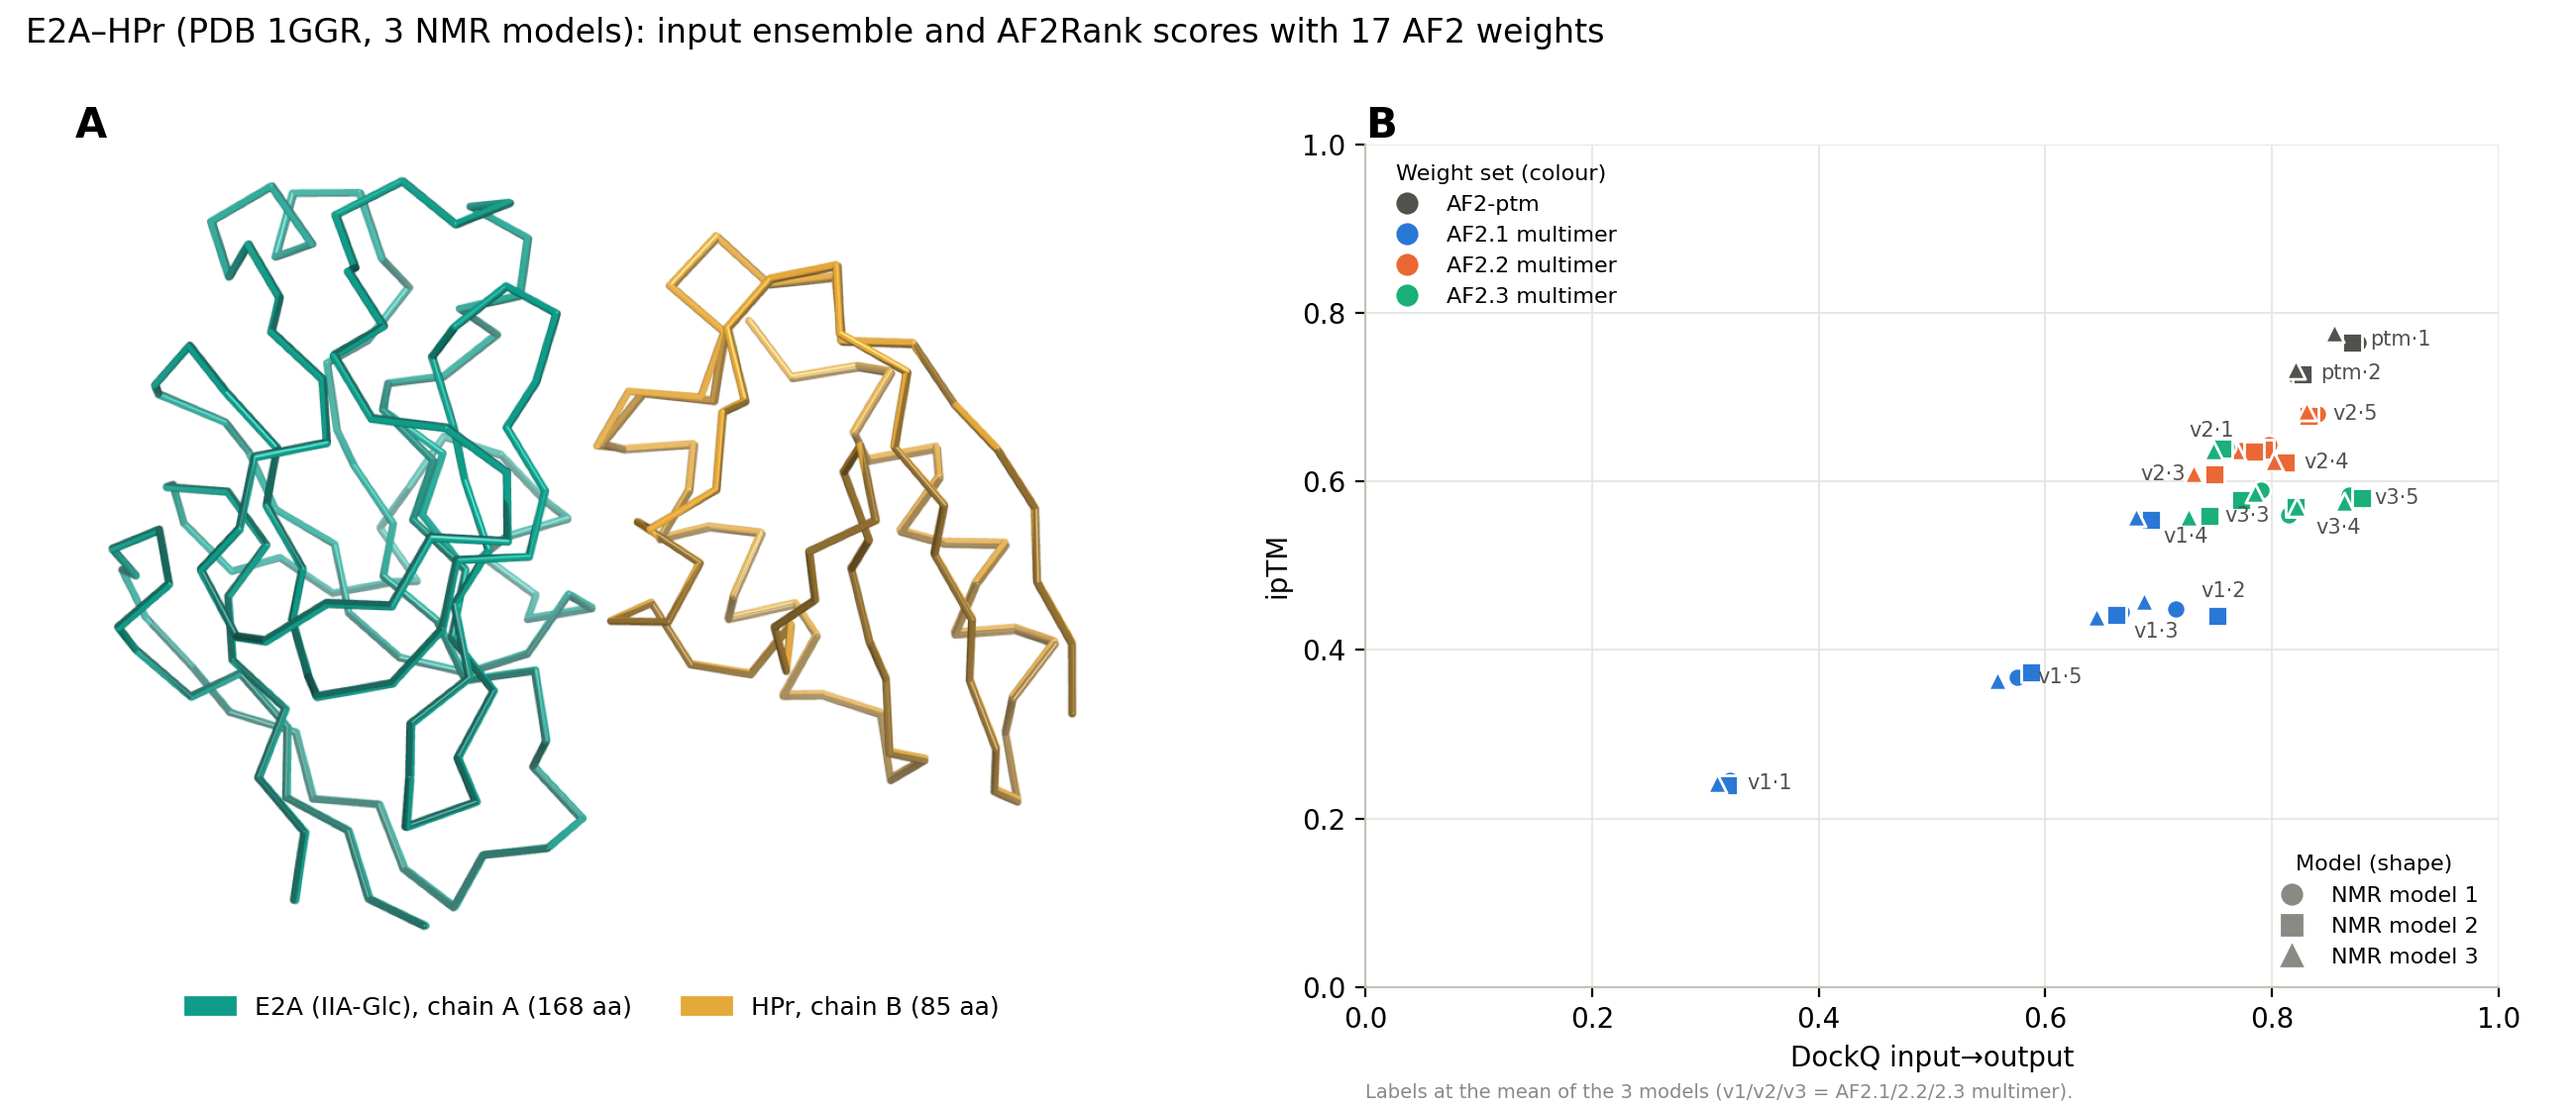
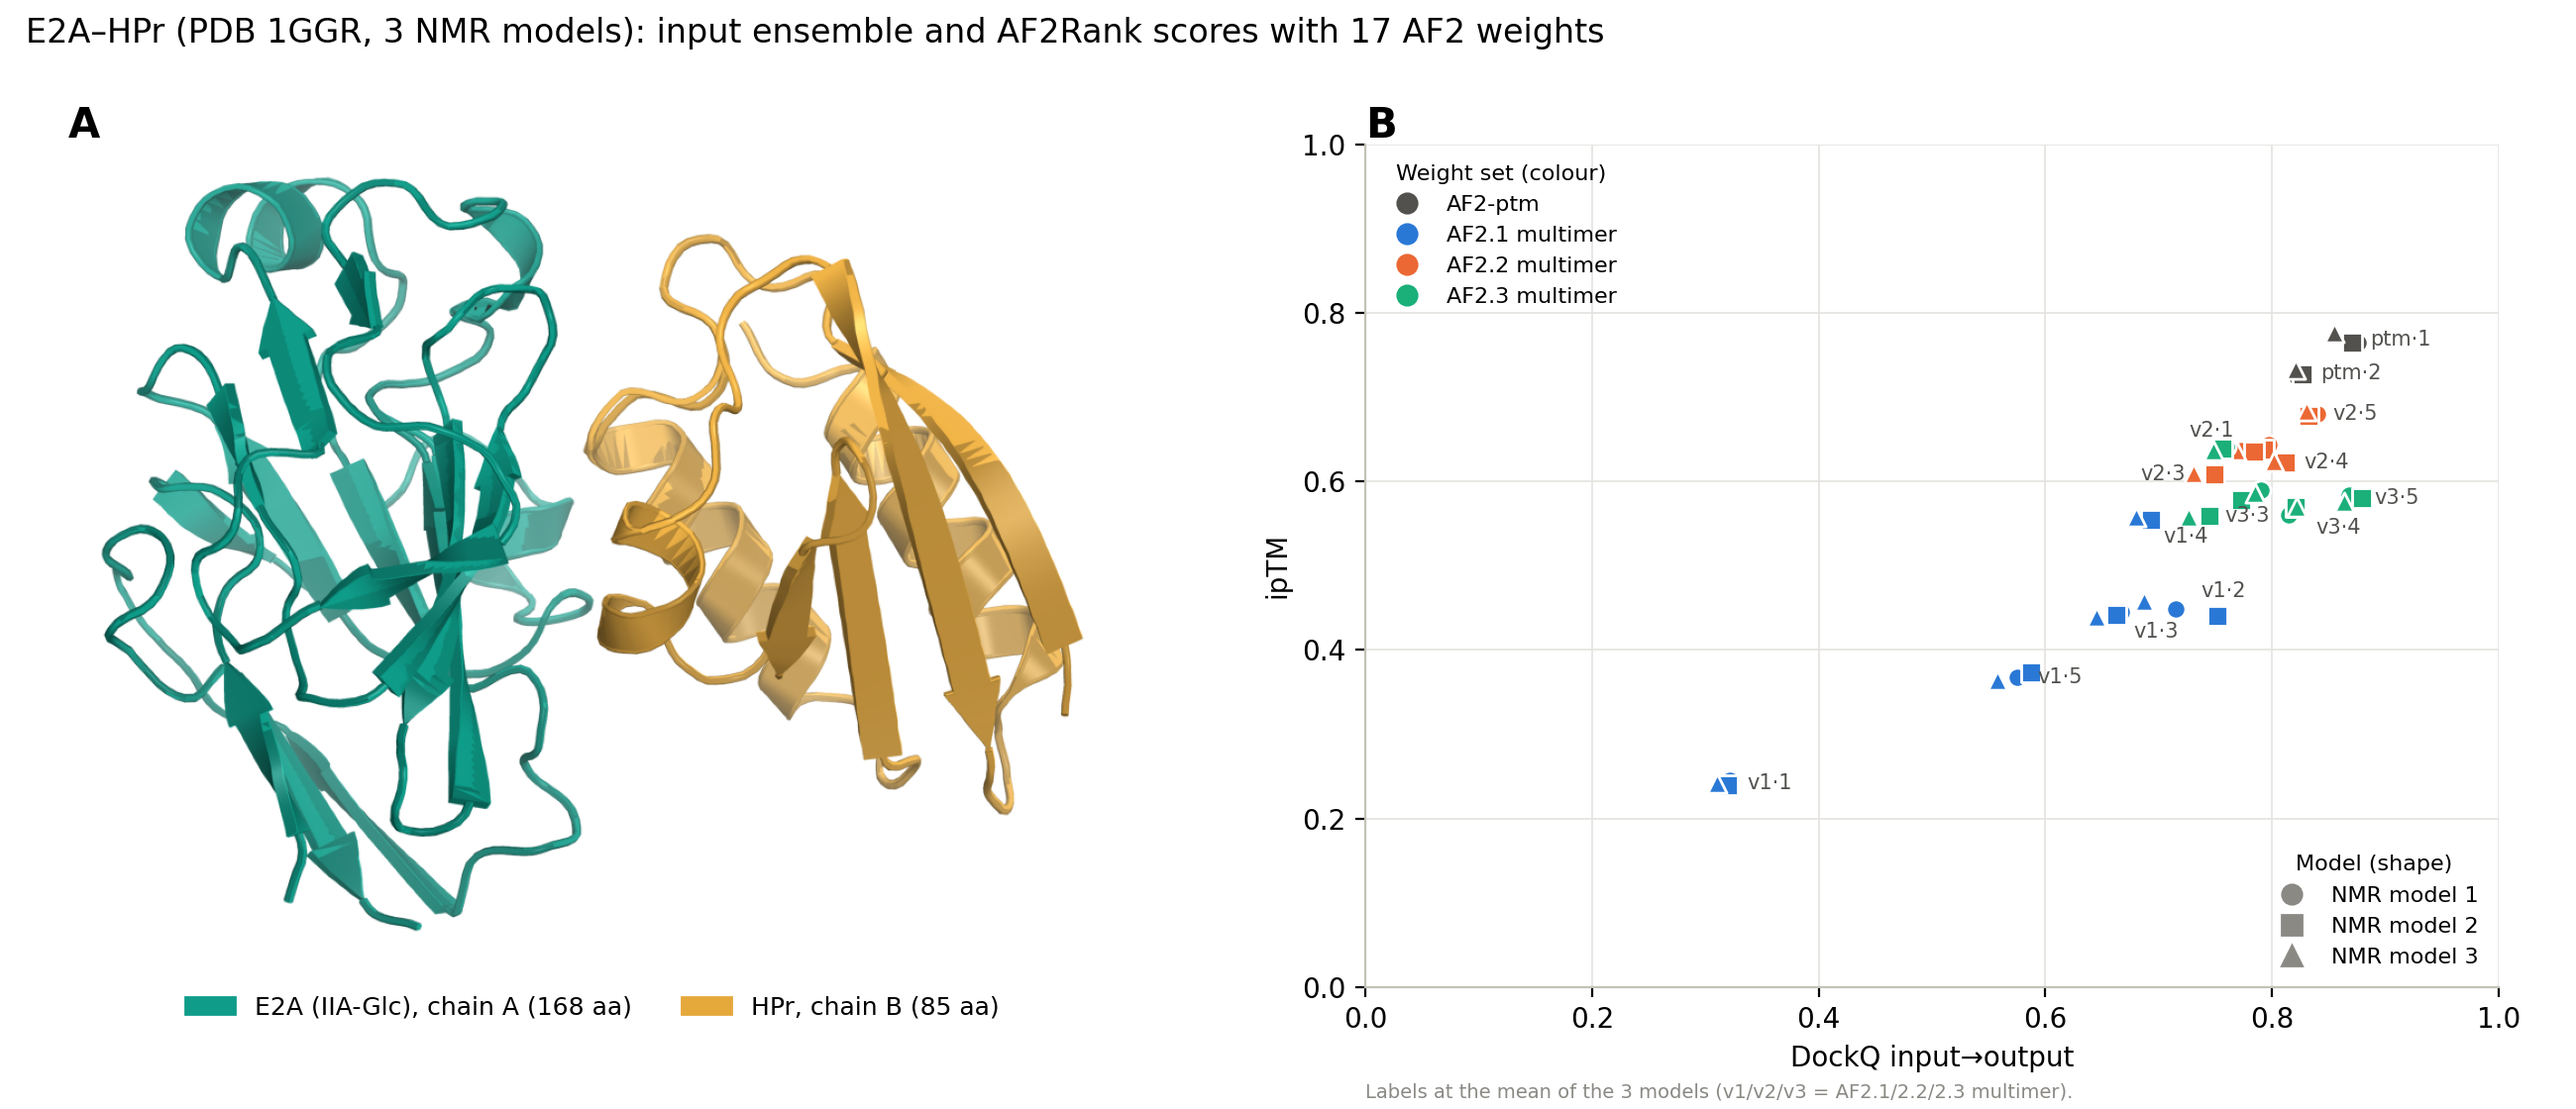
Draw the E2A-HPr ensembles as overlaid cartoons

Changed region(s): [[0.0312, 0.1562, 0.4362, 0.8438], [0.2181, 0.7188, 0.2492, 0.75], [0.0312, 0.0938, 0.0623, 0.125]]

diff --git a/docs/figures/scripts/render_ensembles.py b/docs/figures/scripts/render_ensembles.py
@@ -1,69 +1,32 @@
-"""Render the E2A-HPr ensembles (examples/e2a_hpr) with PyMOL, headless: E2A once, every HPr model overlaid.
+"""Render E2A-HPr ensembles (examples/e2a_hpr) with PyMOL, headless: every dimer model as a cartoon, overlaid.
 
 Usage: python render_ensembles.py <out_dir> examples/e2a_hpr/model_1ggr_nmr_ensemble.pdb examples/e2a_hpr/model_1hdn_ensemble_30.pdb
 """
 import sys
+import numpy as np
 from pymol import cmd
 
 out, ggr, hdn = sys.argv[1], sys.argv[2], sys.argv[3]
+TEAL, AMBER = (0x0f, 0x9d, 0x8a), (0xe5, 0xa8, 0x3b)
 
 
-def render(pdb, png, hpr_ribbon):
+def render(pdb, png):
     cmd.reinitialize()
     cmd.bg_color("white"); cmd.set("ray_opaque_background", 1); cmd.set("ray_shadows", 0)
     cmd.set("antialias", 2); cmd.set("ambient", 0.45); cmd.set("spec_reflect", 0.2)
-    cmd.set_color("teal_c", [0x0f / 255, 0x9d / 255, 0x8a / 255]); cmd.set_color("amber_c", [0xe5 / 255, 0xa8 / 255, 0x3b / 255])
-    cmd.load(pdb, "ens")
-    cmd.remove("hydro or hetatm or solvent")
-    cmd.dss("ens", state=0)
-    # E2A from state 1 only; HPr from every state.
-    cmd.create("e2a", "ens and chain A", 1, 1)
-    cmd.split_states("ens", prefix="hpr_")
-    cmd.delete("ens")
-    hprs = [n for n in cmd.get_names("objects") if n.startswith("hpr_")]
-    for n in hprs:
-        cmd.remove(f"{n} and not chain B")
-    cmd.hide("everything")
-    cmd.show("cartoon", "e2a"); cmd.color("teal_c", "e2a")
-    for n in hprs:
-        if hpr_ribbon:
-            cmd.show("ribbon", n); cmd.set("ribbon_width", 2.5, n)
-        else:
-            cmd.show("cartoon", n)
-        cmd.color("amber_c", n)
-    cmd.orient("e2a or hpr_*")
-    import numpy as np
-    ca = np.array(cmd.get_coords("e2a and name CA", 1)).mean(0)
-    cb = np.array(cmd.get_coords(f"{hprs[0]} and name CA", 1)).mean(0)
-    R = np.array(cmd.get_view()[:9]).reshape(3, 3)
-    v = (cb - ca) @ R
-    cmd.turn("z", -np.degrees(np.arctan2(v[1], v[0])))
-    cmd.zoom("e2a or hpr_*", 2)
-    cmd.png(png, width=1400, height=1100, dpi=300, ray=1)
-    print("saved", png, len(hprs), "HPr models")
-
-
-
-
-def render_all_states(pdb, png):
-    """Every model of both chains as a thin ribbon, one shade per model, so the ensemble shows."""
-    cmd.reinitialize()
-    cmd.bg_color("white"); cmd.set("ray_opaque_background", 1); cmd.set("ray_shadows", 0)
-    cmd.set("antialias", 2); cmd.set("ambient", 0.5)
+    cmd.set("cartoon_fancy_helices", 1)
     cmd.load(pdb, "ens")
     cmd.remove("hydro or hetatm or solvent")
     cmd.split_states("ens", prefix="m_"); cmd.delete("ens")
     models = sorted(n for n in cmd.get_names("objects") if n.startswith("m_"))
-    teal, amber = (0x0f, 0x9d, 0x8a), (0xe5, 0xa8, 0x3b)
     cmd.hide("everything")
     for i, n in enumerate(models):
-        f = 0.55 + 0.45 * i / max(len(models) - 1, 1)  # darker to lighter per model
-        cmd.set_color(f"t{i}", [c / 255 * f + (1 - f) * 0.15 for c in teal])
-        cmd.set_color(f"a{i}", [c / 255 * f + (1 - f) * 0.15 for c in amber])
-        cmd.show("ribbon", n); cmd.set("ribbon_width", 3.0, n)
+        cmd.dss(n)
+        f = 0.75 + 0.25 * i / max(len(models) - 1, 1)  # slightly darker to lighter per model
+        cmd.set_color(f"t{i}", [c / 255 * f for c in TEAL]); cmd.set_color(f"a{i}", [min(c / 255 * f + 0.05, 1) for c in AMBER])
+        cmd.show("cartoon", n)
         cmd.color(f"t{i}", f"{n} and chain A"); cmd.color(f"a{i}", f"{n} and chain B")
     cmd.orient(models[0])
-    import numpy as np
     ca = np.array(cmd.get_coords(f"{models[0]} and chain A and name CA", 1)).mean(0)
     cb = np.array(cmd.get_coords(f"{models[0]} and chain B and name CA", 1)).mean(0)
     R = np.array(cmd.get_view()[:9]).reshape(3, 3)
@@ -71,8 +34,8 @@ def render_all_states(pdb, png):
     cmd.turn("z", -np.degrees(np.arctan2(v[1], v[0])))
     cmd.zoom("m_*", 2)
     cmd.png(png, width=1400, height=1100, dpi=300, ray=1)
-    print("saved", png, len(models), "models")
+    print("saved", png, len(models), "dimer models")
 
 
-render_all_states(ggr, f"{out}/e2a_hpr_1ggr_ensemble.png")
-render(hdn, f"{out}/e2a_hpr_1hdn_ensemble.png", hpr_ribbon=True)
+render(ggr, f"{out}/e2a_hpr_1ggr_ensemble.png")
+render(hdn, f"{out}/e2a_hpr_1hdn_ensemble.png")

diff --git a/docs/af2rank_all_weights.md b/docs/af2rank_all_weights.md
@@ -42,7 +42,7 @@ Two classic test complexes were scored as deposited, each with all 17 weights; t
 
 ![Figure 2](figures/figure_e2a_hpr.png)
 
-**Figure 2.** E2A–HPr (PDB 1GGR). (A) The 3 NMR models drawn as overlaid ribbons, one shade per model, E2A in teal and HPr in amber; they differ by at most 0.18 Å (CA RMSD) and nearly coincide. The 30-model ensemble in `examples/e2a_hpr` shows a wider HPr spread. (B) ipTM against DockQ input→output for 3 models × 17 weights; colour gives the weight set and shape the NMR model, with labels at the mean of each weight's three models.
+**Figure 2.** E2A–HPr (PDB 1GGR). (A) The 3 NMR dimer models overlaid as cartoons, E2A in teal and HPr in amber; they differ by at most 0.18 Å (CA RMSD) and nearly coincide. The 30-model ensemble in `examples/e2a_hpr` shows a wider HPr spread. (B) ipTM against DockQ input→output for 3 models × 17 weights; colour gives the weight set and shape the NMR model, with labels at the mean of each weight's three models.
 
 The plotted values are in `examples/2ptc/results/scores_all_weights.csv` and `examples/e2a_hpr/results/scores_all_weights.csv`; [`figures/scripts`](figures/scripts) redraws the figures (structures rendered with PyMOL).
 
